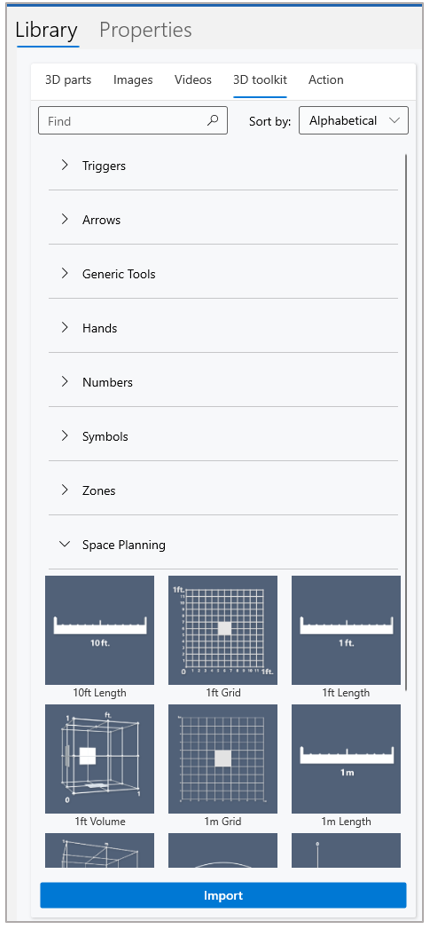
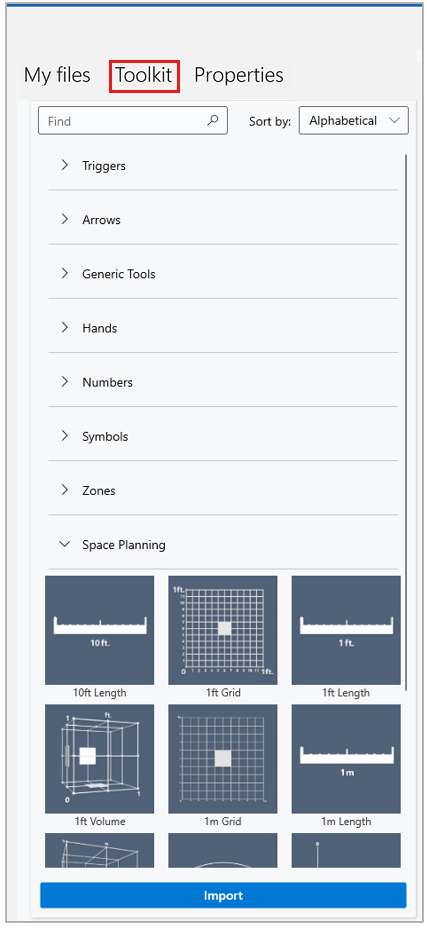
Start content mgmt updates

Changed region(s): [[0.2436, 0.0312, 0.6698, 0.1249], [0.0304, 0.0, 0.2131, 0.0936], [0.7307, 0.0624, 0.7916, 0.0936]]

diff --git a/mr-docs/guides/pc-app-website-powerapps-link.md b/mr-docs/guides/pc-app-website-powerapps-link.md
@@ -23,12 +23,11 @@ Create a seamless workflow for operators by adding a website, email, guide, cust
 
 To add a link to a step, you add an action. You can add one action per step. If a step already includes an action, any new action that you add overwrites the existing action.
 
-1. In the PC Authoring app, go to the appropriate step, and then select the **Action** tab on the right side of the page.
-1. Drag the **Link** circle to the **Action** circle in the lower-right corner of the **Step Editor** pane.
+1. In the PC Authoring app, go to the appropriate step, and then select the **Action** circle in the **Step Editor** pane.
 
-    :::image type="content" source="media/website-link-drag-action.PNG" alt-text="Screenshot that shows the Link circle being dragged to the Action circle.":::
+    :::image type="content" source="media/website-link-action.png" alt-text="Screenshot that shows the Action circle.":::
 
-1. In the **Link** dialog box that appears, enter information based on the selected action:
+1. Select **Website, Guide link, or other link** to perform the following actions. Enter the appropriate information in the **Link** field.
 
     - **Email**: Enter *mailto:* and then the email address.
     - **Guide or step**: [Create and copy a link to a guide or step](pc-app-copy-link-guide-step.md).
@@ -40,6 +39,7 @@ To add a link to a step, you add an action. You can add one action per step. If 
         > If a custom app has been registered as the [default handler for a URI](/windows/uwp/launch-resume/handle-uri-activation), an author can open it by specifying a URI in the format that the app expects. Apps can be opened in [kiosk mode](/hololens/hololens-kiosk). Administrators can [use Windows Defender Application Control (WDAC) and Windows PowerShell to allow or block apps on HoloLens 2 devices with Microsoft Intune](/mem/intune/configuration/custom-profile-hololens).
 
 1. Select **Save**.
+
 1. To view, edit, or delete the link, select and hold (or right-click) the **Link** button in the **Step Editor** pane, and then select the appropriate command.
 
     :::image type="content" source="media/website-link-edit.png" alt-text="Screenshot of the shortcut menu for the Link button, showing the Edit, View, and Delete commands.":::
@@ -56,11 +56,13 @@ The process of adding a Power Apps link has two steps:
 You can link to a published app that was created in Power Apps if you have edit permissions for that app.
 
 1. Open the [Power Apps maker portal](https://make.powerapps.com/).
+
 1. Select the **More Commands** button (**…**) next to the appropriate app, and then select **Edit**.
 
     ![Screenshot that shows Edit being selected on the More Commands menu.](media/powerapps-home.PNG "Screenshot that shows Edit being selected on the More Commands menu")
 
 1. In the left pane, select **File**, and then select **Share**.
+
 1. Under **Guides Power Apps example**, select **Share**.
 
     ![Screenshot of the Share button.](media/powerapps-share-button.PNG "Screenshot of the Share button")
@@ -77,12 +79,14 @@ You can link to a published app that was created in Power Apps if you have edit 
 
 To add a Power Apps link to a step, you add an action. You can add one action per step. If a step already includes an action, any new action that you add overwrites the existing action.
 
-1. In the PC Authoring app, go to the appropriate step, and then select the **Action** tab on the right side of the page.
-1. Drag the **Power Apps** circle to the **Action** circle in the lower-right corner of the **Step Editor** pane.
+1. In the PC Authoring app, go to the appropriate step, and then select the **Action** circle in the **Step Editor** pane.
 
-    :::image type="content" source="media/powerapps-drag-action.PNG" alt-text="Screenshot that shows the Power Apps circle being dragged to the Action circle.":::
+    :::image type="content" source="media/website-link-action.png" alt-text="Screenshot that shows the Action circle.":::
 
-1. In the **Power Apps** dialog box that appears, paste the URL for the Power Apps link, and then select **Save**.
+1. Select **Power Apps** and then paste the URL for the Power Apps link in the **Link** field.
+
+1. Select **Save**.
+
 1. To view, edit, or delete the Power Apps link, select and hold (or right-click) the **Power Apps** button in the **Step Editor** pane, and then select the appropriate command.
 
     :::image type="content" source="media/website-link-edit.png" alt-text="Screenshot of the shortcut menu for the Power Apps button, showing the Edit, View, and Delete commands.":::

diff --git a/mr-docs/guides/pc-app-add-3D-model.md b/mr-docs/guides/pc-app-add-3D-model.md
@@ -1,42 +1,39 @@
 ---
-author: Mamaylya
-ms.author: mamaylya
+author: annitachow
+ms.author: anchow
 description: Learn how to add a 3D model (for example, an arrow or a hand) to a step in the Dynamics 365 Guides PC app. 
-ms.date: 01/18/2022
-ms.topic: article
-title: Add a 3D model (arrow or hand, for example) to a step in the Dynamics 365 Guides PC app
+ms.date: 07/19/2023
+ms.topic: how-to
+title: Add a 3D model from the toolkit to a step in the Dynamics 365 Guides PC app
 ms.reviewer: v-wendysmith
+ms.custom: bap-template
 ---
 
-# Add a 3D model from the 3D toolkit to a step in the Dynamics 365 Guides PC app
+# Add a 3D model from the toolkit to a step in the Dynamics 365 Guides PC app
 
-Microsoft [!include[pn-dyn-365-guides](../includes/pn-dyn-365-guides.md)] includes a library of predefined 3D objects that are optimized to work perfectly with [!include[pn-hololens](../includes/pn-hololens.md)]. The 3D toolkit includes markers, arrows, hands, numbers, symbols, zones, and generic tools. The following illustration shows an example where holographic numbers, arrows, and zones are used to help operators complete a step.
+Microsoft Dynamics 365 Guides includes a library of predefined 3D objects that are optimized to work perfectly with HoloLens. The 3D toolkit includes markers, arrows, hands, numbers, symbols, zones, and generic tools. The following illustration shows an example where holographic numbers, arrows, and zones are used to help operators complete a step.
 
 ![Example of holographic numbers, arrows, and zones.](media/3d-toolkit-example.PNG "Example of holographic numbers, arrows, and zones")
 
 You can mix and match different types of 3D models. You can also use the same object (instance) as many times as you want in a step.
 
 > [!NOTE]
-> Some 3D toolkit items have built-in animations that you can turn on or off. [Learn more about animation options](hololens-app-animations.md)
+> Some 3D toolkit items have built-in animations that you can turn on or off. [Learn more about animation options.](hololens-app-animations.md)
 
-To add a model from the 3D toolkit, follow these steps.
+To add a model from the toolkit, follow these steps.
 
-1. On the right side of the page, select the **3D toolkit** tab, and then select the category for the type of item that you want to add.
+1. On the right side of the page, select the **Toolkit** tab. Then, select the category for the type of item that you want to add.
 
-    ![3D toolkit tab.](media/select-3D-toolkit.PNG "3D toolkit tab")
+  :::image type="content" source="media/select-3D-toolkit.png" alt-text="Screenshot of the right-side pane with the Toolkit tab highlighted.":::
 
-2. Drag the 3D model that you want to one of the **3D parts** boxes.
+1. Drag the 3D model that you want to one of the **3D parts** boxes.
 
     ![Dragging a 3D model to a 3D parts box.](media/select-arrow.PNG "Dragging a 3D model to a 3D parts box")
-    
-3. To preview the model, select (click or double-click) the model in the **Library**.
 
-    ![Properties tab for previewing image, video, or 3D model.](media/properties-tab.PNG "Properties tab for previewing image, video, or 3D model")
-    
-    The image and its properties are displayed on the right side of the screen.   
+1. To preview the model, select (click or double-click) the model in the **Library**.
 
 > [!NOTE]
-> You can also add 3D models from the 3D toolkit directly in the [!include[pn-hololens](../includes/pn-hololens.md)] app.
+> You can also add 3D models from the toolkit directly in the HoloLens app.
 
 ## Best practices for the 3D toolkit
 
@@ -50,7 +47,7 @@ To add a model from the 3D toolkit, follow these steps.
 
 For more information about ways to use objects from the 3D toolkit, see [Create a great guide](great-guide.md).
 
-## What's next?
+## Next steps
 
 - [Step Editor overview](pc-app-step-editor-overview.md)
 - [Add a 3D part](pc-app-add-3D-part.md)

diff --git a/mr-docs/guides/admin-create-folders.md b/mr-docs/guides/admin-create-folders.md
@@ -1,8 +1,8 @@
 ---
-author: Mamaylya
+author: annitachow
 description: Learn how to organize guides into folders in Dynamics 365 Guides
-ms.author: mamaylya
-ms.date: 06/22/2023
+ms.author: anchow
+ms.date: 07/19/2023
 ms.topic: how-to
 title: Organize guides into folders in Dynamics 365 Guides
 ms.reviewer: v-wendysmith
@@ -11,11 +11,11 @@ ms.custom: bap-template
 
 # Create folders in Dynamics 365 Guides to organize your guides
 
-Folders are useful for managing groups of guides with the same permissions, such as guides for a specific team or product. Permissions assigned to folders do not give permissions to guides within those folders, however. A folder can contain guides and subfolders. Each folder can be assigned an owner. When you delete a folder, all items in that folder are also deleted.
+Folders are useful for managing groups of guides or assets with the same permissions, such as guides and their assets for a specific team or product. A folder can contain guides, subfolders, and assets (3D parts, images, videos, and object anchors). Each folder can be assigned an owner. When you delete a folder, all items in that folder are also deleted.
 
 ## Prerequisites
 
-- Guides admin or author role
+- Guides Admin or Author role
 
 ## Create a folder
 
@@ -29,11 +29,11 @@ Folders are useful for managing groups of guides with the same permissions, such
 
     ![New command highlighted at top of Power Apps screen.](media/folders-new.PNG "New command highlighted at top of Power Apps screen")
 
-1. At the top of the screen, select **Save & Close** to save the folder and return to the folder list. After saving, you can add guides and subfolders to the folder.
+1. At the top of the screen, select **Save & Close** to save the folder and return to the folder list. After saving, you can add guides, subfolders, or assets to the folder.
 
-## Add a guide to a folder
+## Add a guide or asset to a folder
 
-1. In the left pane, select **Guides**, and then locate the guide you want to add to the folder.
+1. In the left pane, under **Content** select the guide or type of asset you want to add. Then select the particular guide or asset you want to add to the folder.
 
 1. On the **General** tab, in the **Parent Folder** field, enter the parent folder name or search for it.
 
@@ -42,7 +42,7 @@ Folders are useful for managing groups of guides with the same permissions, such
 1. At the top of the screen, select **Save** or **Save & Close**.
 
 > [!TIP]
-> To move a guide back to the root folder, return to the guide details and delete the contents of the **Parent Folder** field.
+> To move a guide or asset back to the root folder, return to the guide details and delete the contents of the **Parent Folder** field.
 
 ## Change the owner of a folder
 

diff --git a/mr-docs/guides/pc-app-add-3D-part.md b/mr-docs/guides/pc-app-add-3D-part.md
@@ -1,35 +1,34 @@
 ---
-author: Mamaylya
-ms.author: mamaylya
+author: annitachow
+ms.author: anchow
 description: Learn how to add a custom 3D part to a step in the Microsoft Dynamics 365 Guides PC app. 
-ms.date: 05/24/2023
+ms.date: 07/19/2023
 ms.topic: how-to
 title: Add a custom 3D part to a step in the Dynamics 365 Guides PC app
 ms.reviewer: v-wendysmith
 ms.custom: bap-template
 ---
 
-# Add a custom 3D part (that you import) to a step in the Dynamics 365 Guides PC app
+# Add a custom 3D part to a step in the Dynamics 365 Guides PC app
 
 You can add 3D parts (models specific to your company) in Microsoft Dynamics 365 Guides by importing them. A 3D part hologram helps operators find a 3D part in the real world. You can use a combination of third-party tools to prepare your 3D computer-aided design (CAD) models. For more information, see [Overview of preparing 3D models](./3d-content-guidelines/overview.md).
 
-1. In the PC app, on the right side of the page, select the **3D parts** tab.
+1. On the right side of the page, select the **My files** tab.
 
-    ![3D parts tab.](media/select-3D-parts.PNG "3D parts tab")
+   :::image type="content" source="media/library-panel.png" alt-text="Screenshot of the right-side pane with the My files tab highlighted.":::
+
+   [!INCLUDE [pc-app-filter-sort](../includes/pc-app-filter-sort.md)]
 
 1. Drag the 3D part that you want to one of the **3D parts** boxes.
 
     ![Dragging a 3D part to a 3D parts box.](media/drag-3D-part.PNG "Dragging a 3D part to a 3D parts box")
-
-   > [!TIP]
-   > To find items that were recently added to the gallery, you can sort by name or by the date when the item was added.
 
 ## Import a custom 3D model to use as a 3D part
 
 You can import your own custom 3D models and add them to the **3D parts** library. To import files, you can drag them from a local file folder or use the **Import** command.
 
 > [!TIP]
-> You can set animation options (playback speed, direction, and looping) in the HoloLens app. 
+> You can set animation options (playback speed, direction, and looping) in the HoloLens app.
 
 ### Import a file by using a drag-and-drop operation
 

diff --git a/mr-docs/guides/pc-app-add-media.md b/mr-docs/guides/pc-app-add-media.md
@@ -2,7 +2,7 @@
 author: Mamaylya
 ms.author: mamaylya
 description: Learn how to add an image or video to a step in the Microsoft Dynamics 365 Guides PC app to help operators with a complex step.
-ms.date: 06/22/2023
+ms.date: 07/19/2023
 ms.topic: how-to
 title: Add an image or video to a step in the Dynamics 365 Guides PC app
 ms.reviewer: v-wendysmith
@@ -16,9 +16,11 @@ As an author, add an image or video in the Dynamics 365 Guides PC app to help an
 > [!NOTE]
 > The PC app converts and resizes videos when they're uploaded to ensure optimal performance on HoloLens. This transcoding process depends on the codecs installed on the PC and errors can occur if codecs are removed from the PC.
 
-1. In the PC app, on the right side of the page, select the **Images** or **Videos** tab.
+1. In the PC app, on the right side of the page, select the **My files** tab.
 
-    ![Images and Videos tabs.](media/select-image-video.PNG "Images and Videos tabs")
+   :::image type="content" source="media/library-panel.png" alt-text="Screenshot of the right-side pane with the My files tab highlighted.":::
+
+   [!INCLUDE [pc-app-filter-sort](../includes/pc-app-filter-sort.md)]
 
 1. Drag the image or video to the **Media panel** box.
 

diff --git a/mr-docs/guides/admin-access-assign.md b/mr-docs/guides/admin-access-assign.md
@@ -1,10 +1,10 @@
 ---
 title: Assign ownership of a guide in Dynamics 365 Guides
 description: Learn how to assign ownership of a guide in Microsoft Dynamics 365 Guides.
-author:  Mamaylya
+author:  annitachow
 ms.topic: conceptual
-ms.date: 04/05/2022
-ms.author: mamaylya
+ms.date: 07/19/2023
+ms.author: anchow
 ms.reviewer: v-wendysmith
 ---
 

diff --git a/mr-docs/includes/pc-app-filter-sort.md b/mr-docs/includes/pc-app-filter-sort.md
@@ -1,0 +1,2 @@
+> [!TIP]
+> To find items quickly, you can filter by asset type (3D parts, images, videos, and object anchors) or sort by name, date, or type in ascending or descending order. If you have navigated to a folder that does not contain the asset, a message displays. Navigate back up the hierarchy or go to the parent folder.
